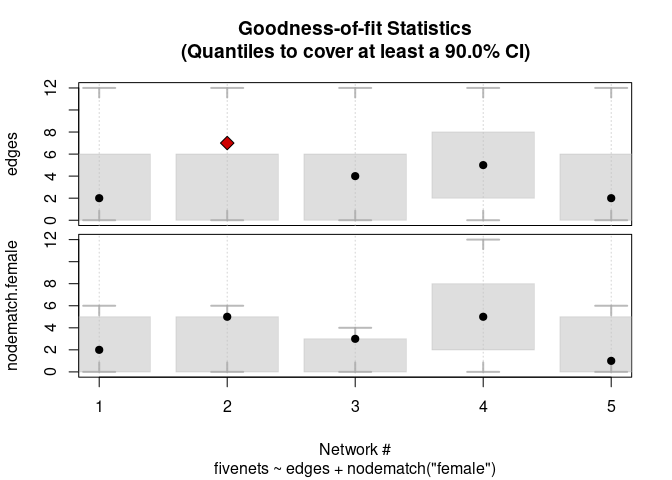
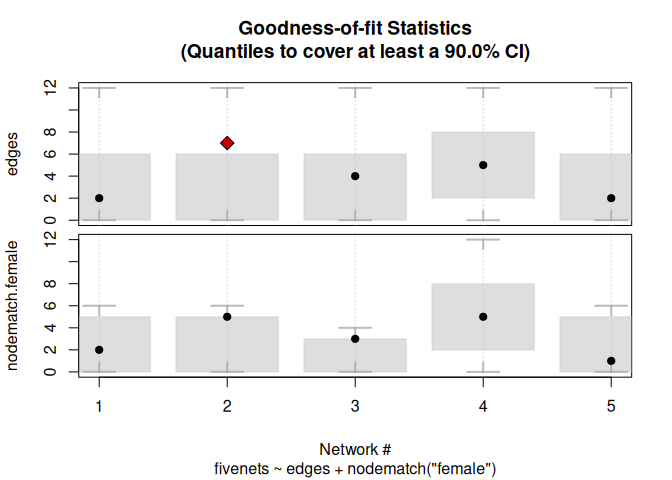
Fix CRAN check: add missing package anchors in nvertex.Rd documentation (#27)
* Initial plan

* Fix CRAN check: add package anchors for external class references

* Adding devcontainer, new check, and fixing PR

* Fixing README

* Updating the README

---------

diff --git a/README.md b/README.md
@@ -1,19 +1,14 @@
 
-<!-- README.md is generated from README.Rmd. Please edit that file -->
+
+<!-- README.md is generated from README.qmd. Please edit that file -->
 
 # ergmito: Exponential Random Graph Models for Small Networks <img src="man/figures/logo.png" align="right" width="180px"/>
 
 <!-- badges: start -->
-<!-- [![status](https://tinyverse.netlify.com/badge/ergmito)](https://CRAN.R-project.org/package=ergmito) -->
-
-[![CRAN
-status](https://www.r-pkg.org/badges/version/ergmito)](https://cran.r-project.org/package=ergmito)
-[![Lifecycle:
-maturing](https://img.shields.io/badge/lifecycle-maturing-blue.svg)](https://www.tidyverse.org/lifecycle/#maturing)
-[![Travis build
-status](https://travis-ci.org/muriteams/ergmito.svg?branch=master)](https://travis-ci.org/muriteams/ergmito)
+<!-- [![status](https://tinyverse.netlify.com/badge/ergmito)](https://CRAN.R-project.org/package=ergmito) --> 
+[![CRAN status](https://www.r-pkg.org/badges/version/ergmito)](https://cran.r-project.org/package=ergmito) 
 [![codecov](https://codecov.io/gh/muriteams/ergmito/branch/master/graph/badge.svg)](https://codecov.io/gh/muriteams/ergmito)
-![](http://cranlogs.r-pkg.org/badges/grand-total/ergmito)
+[![](https://cranlogs.r-pkg.org/badges/grand-total/ergmito)](https://cran.r-project.org/package=ergmito)
 [![R-CMD-check](https://github.com/muriteams/ergmito/actions/workflows/R-CMD-check.yaml/badge.svg)](https://github.com/muriteams/ergmito/actions/workflows/R-CMD-check.yaml)
 <!-- badges: end -->
 
@@ -52,13 +47,13 @@ doi:10.1016/j.socnet.2020.07.005
 Use this if you are using the GitHub version of ergmito:
 
 Vega Yon G (????). *ergmito: Exponential Random Graph Models for Small
-Networks*. R package version 0.3-1 (wip),
+Networks*. R package version 0.3-2 (wip),
 <https://github.com/muriteams/ergmito>.
 
 Use this if you are using the CRAN version of ergmito:
 
 Vega Yon G (????). *ergmito: Exponential Random Graph Models for Small
-Networks*. R package version 0.3-1,
+Networks*. R package version 0.3-2,
 <https://cran.r-project.org/package=ergmito>.
 
 To see these entries in BibTeX format, use ‘print(<citation>,
@@ -152,13 +147,13 @@ summary(ans_ergm)
 #> Monte Carlo Maximum Likelihood Results:
 #> 
 #>        Estimate Std. Error MCMC % z value Pr(>|z|)
-#> edges   -1.3984     1.0326      0  -1.354    0.176
-#> istar2   0.5927     1.4024      0   0.423    0.673
+#> edges   -1.4456     0.9291      0  -1.556    0.120
+#> istar2   0.5882     1.2823      0   0.459    0.646
 #> 
 #>      Null Deviance: 16.64  on 12  degrees of freedom
-#>  Residual Deviance: 13.37  on 10  degrees of freedom
+#>  Residual Deviance: 13.35  on 10  degrees of freedom
 #>  
-#> AIC: 17.37  BIC: 18.34  (Smaller is better. MC Std. Err. = 0.01315)
+#> AIC: 17.35  BIC: 18.32  (Smaller is better. MC Std. Err. = 0.01304)
 ```
 
 ## Estimating data with known parameters
@@ -316,7 +311,7 @@ We can fit this model in a memory-efficient way.
 ``` r
 system.time(ans0 <- ergmito(bignet ~ edges + mutual))
 #>    user  system elapsed 
-#>   9.314   0.084   9.400
+#>  11.748   0.274  12.227
 summary(ans0)
 #> 
 #> ERGMito estimates (MLE)
@@ -398,7 +393,7 @@ size five
 ``` r
 plogis(coef(ans1)[1])   
 #>     edges 
-#> 0.2333333
+#> 0.2333334
 plogis(sum(coef(ans1))) 
 #> [1] 0.11
 ```

diff --git a/NEWS.md b/NEWS.md
@@ -1,3 +1,7 @@
+# ergmito 0.3-2
+
+* Returning to CRAN. Minor fixes correcting issues with documentation.
+
 # ergmito 0.3-1
 
 * Returning to CRAN. Minor fixes correcting issues with CLANG.
